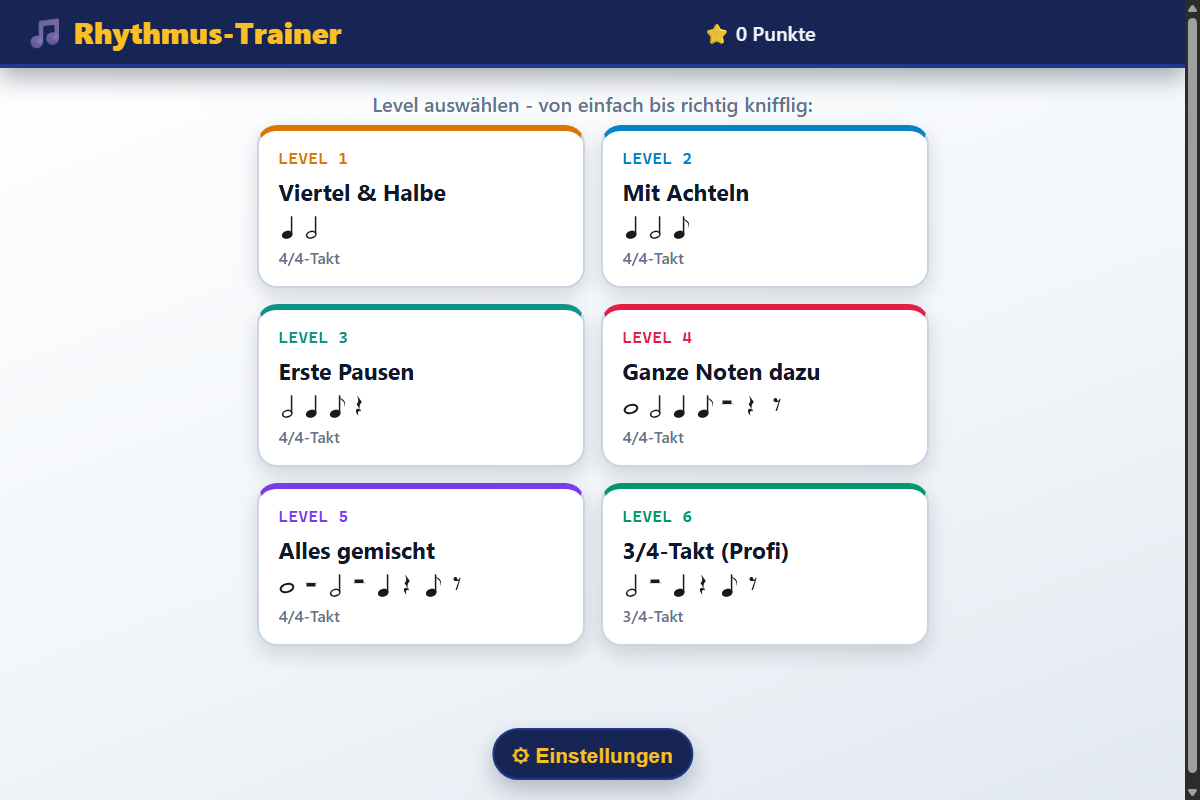
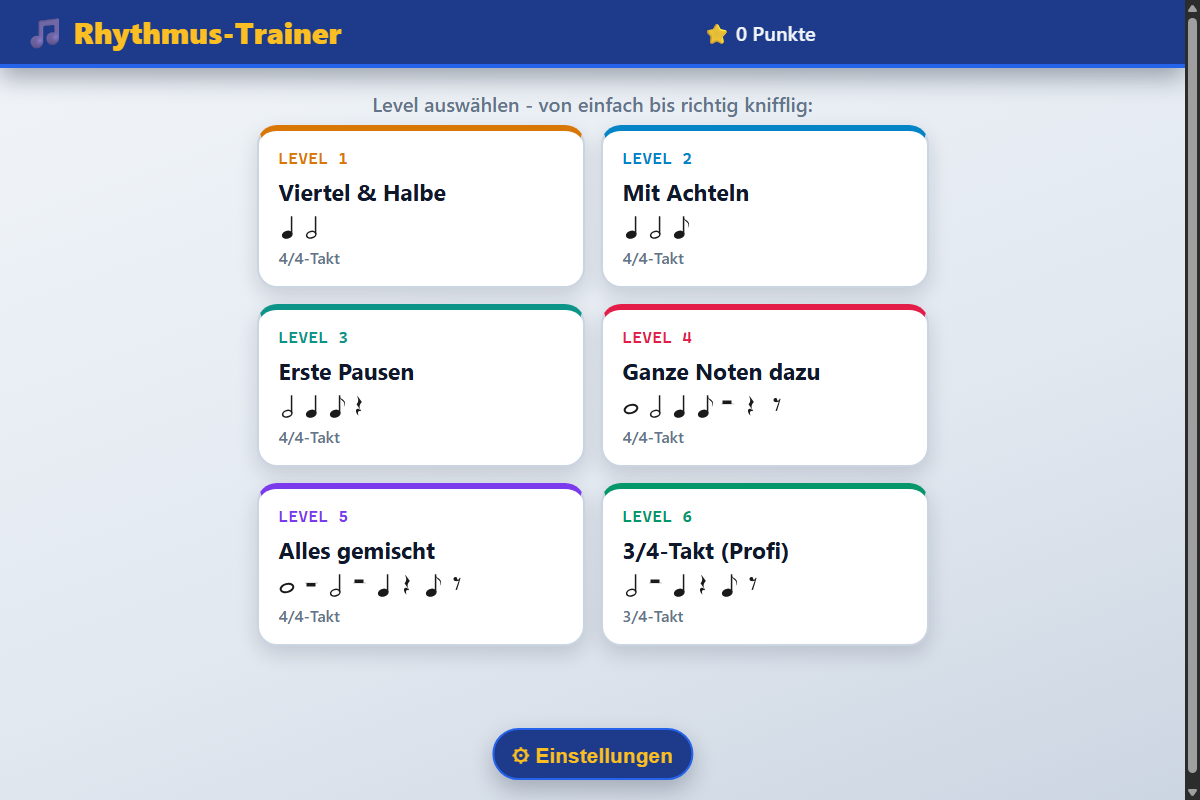
Style-Test: royaleres Blau + dunkleres Grau im Hintergrund
Gleiche Palettenanpassung wie bei den anderen beiden Apps.

Changed region(s): [[0.0, 0.0, 0.9867, 0.0938], [0.4008, 0.9062, 0.5858, 1.0]]

diff --git a/style.css b/style.css
@@ -1,7 +1,7 @@
 :root {
-  --bg-1: #ffffff;
-  --bg-2: #f1f5f9;
-  --bg-3: #172554;
+  --bg-1: #f1f5f9;
+  --bg-2: #e2e8f0;
+  --bg-3: #1e3a8a;
   --ink: #0f172a;
   --ink-soft: #64748b;
   --ink-on-dark: #f1f5f9;
@@ -9,7 +9,7 @@
   --paper-alt: #f1f5f9;
   --line: #cbd5e1;
   --border-strong: #94a3b8;
-  --line-dark: #1e3a8a;
+  --line-dark: #2563eb;
   --accent: #f59e0b;
   --accent-light: #fbbf24;
   --accent-dark: #b45309;
@@ -30,7 +30,7 @@ html, body {
   margin: 0;
   padding: 0;
   min-height: 100%;
-  background: linear-gradient(160deg, var(--bg-1) 0%, var(--bg-2) 60%, #e2e8f0 100%);
+  background: linear-gradient(160deg, var(--bg-1) 0%, var(--bg-2) 60%, #cbd5e1 100%);
   color: var(--ink);
   font-family: -apple-system, BlinkMacSystemFont, "Segoe UI", Roboto, "Helvetica Neue", Arial, sans-serif;
   -webkit-user-select: none;
@@ -103,7 +103,7 @@ h1, .measure-title, .listen-btn, .check-btn, .level-card-title,
   min-height: 44px;
   transition: transform 0.12s ease, background 0.15s;
 }
-.btn:hover { background: #1e3a8a; }
+.btn:hover { background: #1d4ed8; }
 .btn:active { transform: scale(0.96); }
 
 .btn-secondary { background: var(--bg-3); }
